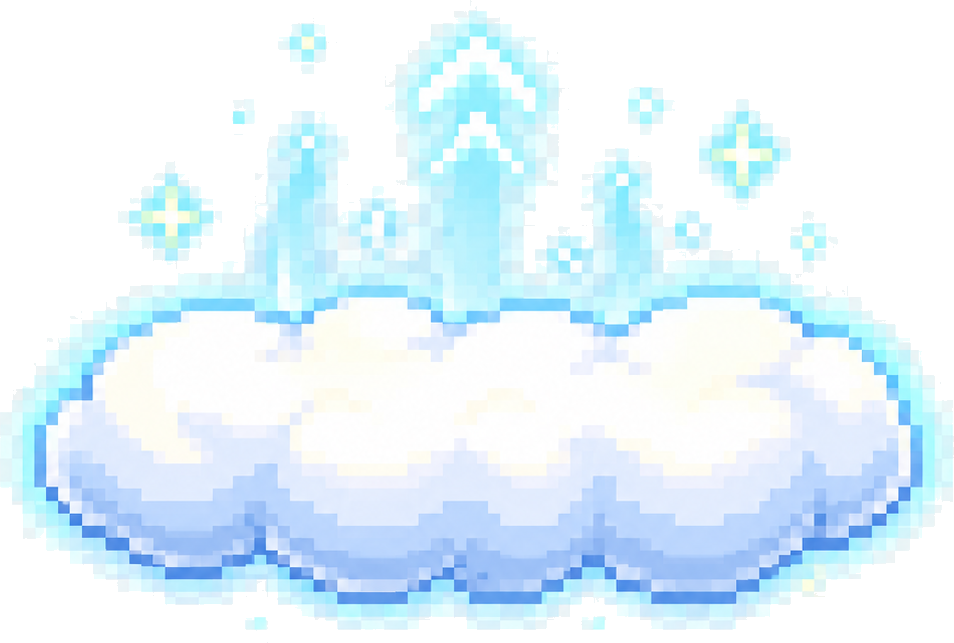
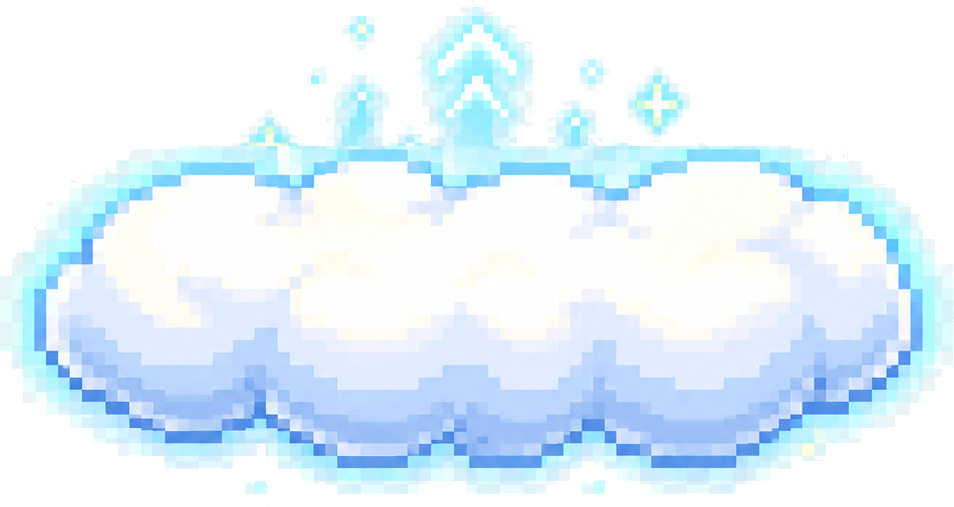
특수 구름 스프라이트 재작업 + 배경 구름 흐름 복구 (#76)
이미지 자체가 이상하게 그려져 있던 문제(효과가 구름보다 훨씬 큼) 수정.
cloud-boost/cloud-bounce 는 화살표·반짝이 효과가 이미지 높이의 약 60%를
차지해 게임에서 발판보다 효과가 압도적으로 커 보였다.

- 스프라이트를 효과부/구름부로 분리해 효과만 축소(부스트 68%, 트램펄린 42%)
  후 재합성. 구름 발판은 원본 크기 유지 → 일반 구름과 비슷한 존재감.
- 재합성 시 구름을 효과 밑단 위로 겹쳐 붙여 잘린 이음선 제거.
- 픽셀아트 유지를 위해 NEAREST 리샘플 사용.
- 새 비율에 맞춰 platFrac 갱신(부스트 0.47→0.29, 트램펄린 0.58→0.35).

배경 장식 구름은 문제없다는 피드백에 따라 흐르는 움직임을 원복.

Claude-Session: https://claude.ai/code/session_01RHUteVAQrE5QdX9F7Hnmp4

diff --git a/js/cloud.js b/js/cloud.js
@@ -29,9 +29,11 @@ function loadCloudVariant(src, platFrac, wScale) {
   }
   return v;
 }
+// platFrac: 발판(구름 윗면)이 스프라이트 높이의 어디쯤인지(위→아래 비율).
+// 스프라이트의 효과(화살표·반짝이) 부분을 줄여 재작업하면서 값도 함께 갱신됨.
 const VARIANT_SPRITES = {
-  [CLOUD_TYPES.BOOST]: loadCloudVariant('assets/cloud-boost.png', 0.47, 1.15),
-  [CLOUD_TYPES.BOUNCE]: loadCloudVariant('assets/cloud-bounce.png', 0.58, 1.15),
+  [CLOUD_TYPES.BOOST]: loadCloudVariant('assets/cloud-boost.png', 0.29, 1.15),
+  [CLOUD_TYPES.BOUNCE]: loadCloudVariant('assets/cloud-bounce.png', 0.35, 1.15),
 };
 
 export function loadCloudSprite() {

diff --git a/js/game.js b/js/game.js
@@ -1549,10 +1549,12 @@ export class Game {
       this._drawPlanet(ctx, w * 0.24, h * 0.26, 20 * GAME_SCALE, planetA);
     }
 
-    // 배경 장식 구름: 정적(제자리 고정). 고도가 오르면 옅어지다 사라짐.
+    // 떠다니는 배경 구름: 고도가 오르면 옅어지다 사라짐
     const cloudA = Math.max(0, 1 - altitude / 0.5);
     if (cloudA > 0) {
       for (const dec of this.cloudDecor) {
+        dec.y += dec.speed;
+        if (dec.y > h + 40) dec.y = -40;
         this._drawDecorCloud(ctx, dec.x, dec.y, dec.scale * 30 * GAME_SCALE, cloudA);
       }
     }
